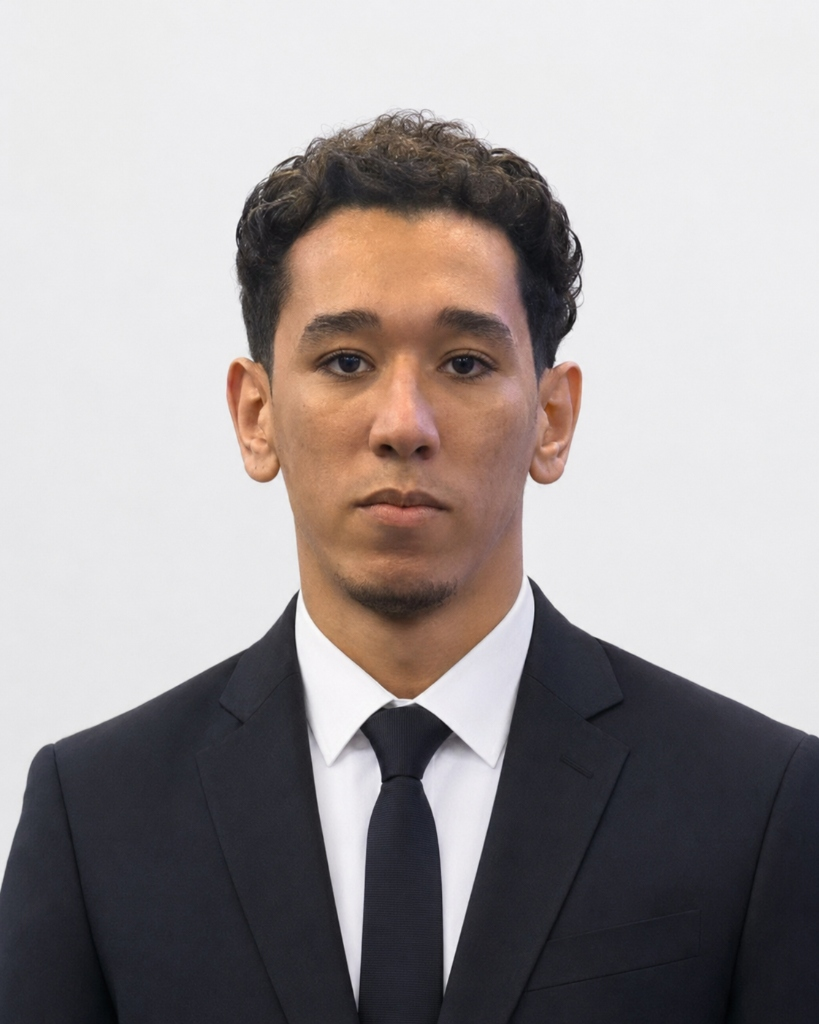
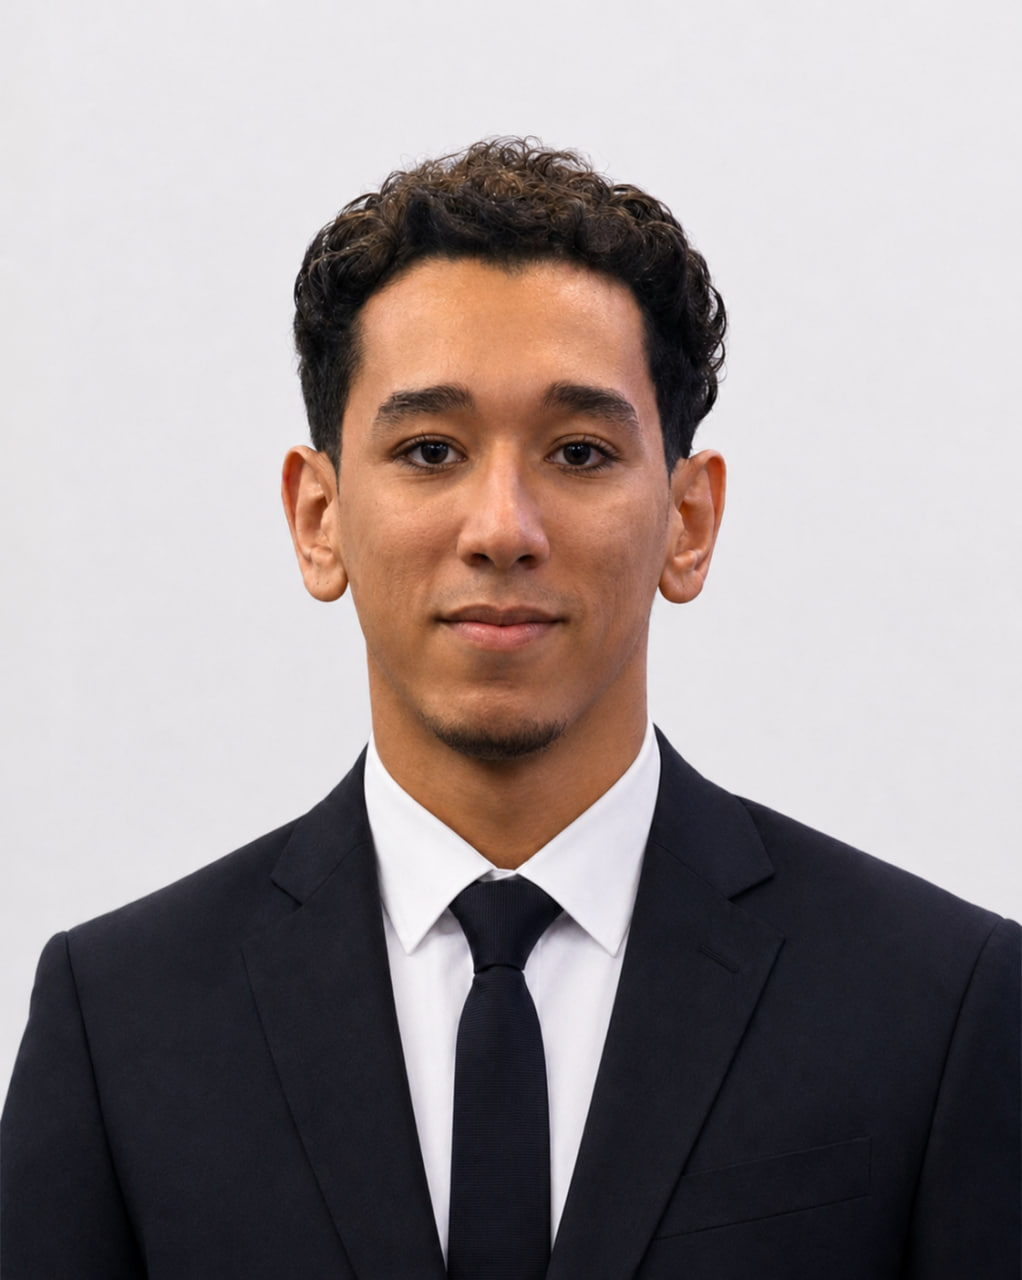
feat: update Abdo Research links to Calendly booking page

diff --git a/index.html b/index.html
@@ -76,7 +76,7 @@
   <header>
     <div class="nav-container">
       <div style="flex: 1; display: flex; align-items: center;">
-        <a href="https://t.me/abdoresearch" target="_blank" rel="noopener noreferrer" class="btn-primary" style="padding: 10px 24px; font-size: 0.9rem; border-radius: 50px; font-weight: 800; text-decoration: none;">احجز مكالمة</a>
+        <a href="https://calendly.com/abdoresearch/30min" target="_blank" rel="noopener noreferrer" class="btn-primary" style="padding: 10px 24px; font-size: 0.9rem; border-radius: 50px; font-weight: 800; text-decoration: none;">احجز مكالمة</a>
       </div>
 
       <!-- Brand Wordmark (Center on large screens) -->
@@ -91,7 +91,7 @@
       <div class="header-auth-group" style="flex: 1; justify-content: flex-end; display: flex; align-items: center; gap: 12px;">
         <!-- Social icons (header) — 32px, shown before login -->
         <div class="header-social-icons">
-          <a href="https://t.me/abdoresearch" target="_blank" rel="noopener noreferrer" class="social-icon-btn" aria-label="Telegram">
+          <a href="https://t.me/Abdo_Research" target="_blank" rel="noopener noreferrer" class="social-icon-btn" aria-label="Telegram">
             <svg viewBox="0 0 24 24" xmlns="http://www.w3.org/2000/svg"><path d="M12 2C6.48 2 2 6.48 2 12s4.48 10 10 10 10-4.48 10-10S17.52 2 12 2zm4.64 6.8l-1.68 7.93c-.12.56-.46.69-.93.43l-2.58-1.9-1.24 1.2c-.14.14-.25.25-.51.25l.18-2.62 4.7-4.25c.2-.18-.05-.28-.32-.1L7.9 14.84l-2.54-.8c-.55-.17-.56-.55.12-.82l9.92-3.82c.46-.17.86.11.69.8l.55-.2z"/></svg>
           </a>
           <a href="https://twitter.com/abdoresearch" target="_blank" rel="noopener noreferrer" class="social-icon-btn" aria-label="Twitter / X">
@@ -119,7 +119,7 @@
     <section id="hero" class="hero-section-inst">
       <div class="hero-inst-grid">
         <div class="hero-inst-left">
-          <span class="hero-eyebrow">باحث كمي مستقل · إدارة مخاطر أولاً · خبرة 8+ سنوات</span>
+          <span class="hero-eyebrow">باحث كمي مستقل · خبرة 8+ سنوات</span>
           <h1 class="hero-inst-headline">أبني نماذج تداول تقوم على الدليل الإحصائي، لا على الانطباع.</h1>
           <p class="hero-inst-sub">أنا عبدالرحمن محمد — أُطبّق منهجية بحثية كمية صارمة لتحويل البيانات التاريخية وسلوك السيولة إلى نماذج تداول مُختبرة بمنهجية Walk-Forward ومُدارة بانضباط.</p>
 
@@ -156,24 +156,11 @@
           </div>
 
           <div class="hero-btns">
-            <a href="https://t.me/abdoresearch" target="_blank" rel="noopener noreferrer" class="btn-primary" style="padding: 15px 44px; font-size: 1.05rem; font-weight: 800;">احجز مكالمة</a>
+            <a href="https://calendly.com/abdoresearch/30min" target="_blank" rel="noopener noreferrer" class="btn-primary" style="padding: 15px 44px; font-size: 1.05rem; font-weight: 800;">احجز مكالمة</a>
             <a href="#strategy" class="btn-secondary" style="padding: 15px 28px; font-size: 0.95rem;">استكشف المنهجية</a>
           </div>
 
-          <div class="hero-media-strip">
-            <span class="hero-media-label">نطاق التغطية</span>
-            <div class="hero-media-logos">
-              <span class="hero-media-logo">الأسواق الأمريكية</span>
-              <span class="hero-media-sep">·</span>
-              <span class="hero-media-logo">الخليج ومصر</span>
-              <span class="hero-media-sep">·</span>
-              <span class="hero-media-logo">العقود الآجلة</span>
-              <span class="hero-media-sep">·</span>
-              <span class="hero-media-logo">الخيارات</span>
-              <span class="hero-media-sep">·</span>
-              <span class="hero-media-logo">الأصول الرقمية</span>
-            </div>
-          </div>
+
         </div>
 
         <div class="hero-inst-right">
@@ -791,7 +778,7 @@
       <div class="about-simple">
         <img src="abdo-profile.jpg" alt="عبدالرحمن محمد — باحث كمي مستقل" width="88" height="88" loading="lazy" decoding="async" class="about-avatar" />
         <h2 class="about-headline">أنا عبدالرحمن محمد.<br>أبني أنظمة تداول كمية تُقاس بالأرقام لا بالانطباع.</h2>
-        <p>طريقتي في العمل واحدة لا تتغير: الفرضية أولاً، الاختبار الإحصائي ثانياً، إدارة المخاطر ثالثاً، ثم التنفيذ. كل صفقة أُصدرها تمرّ عبر نموذج مخاطر يحدّد حجم المركز ونقطة الخروج قبل الدخول — لا أتعامل مع السوق بالحدس، بل بالاحتمالات.</p>
+        <p>طريقتي في العمل واحدة لا تتغير: الفرضية أولاً، الاختبار الإحصائي ثانياً، إدارة المخاطر ثالثاً، ثم التنفيذ. كل صفقة أُصدرها تمرّ عبر نموذج مخاطر يحدّد حجم المركز ونقطة الخروج قبل الدخول — لا أتعامل مع السوق ��الحدس، بل بالاحتمالات.</p>
         <p>كرّستُ سنوات لبناء منهجية بحثية كمية مستقلة عبر الأسهم والعقود الآجلة والخيارات والأصول الرقمية، مُختبَرة بمنهجية Walk-Forward وخارج العينة. لا أبيع إشارات ولا وعوداً — أبني أنظمة قابلة للاختبار والمراجعة والمحاسبة، وأشارك نتائجها بشفافية كاملة.</p>
         <p class="about-disclaimer">جميع المحتويات لأغراض بحثية وتعليمية. الأداء السابق لا يضمن نتائج مستقبلية.</p>
       </div>

diff --git a/dashboard.html b/dashboard.html
@@ -1981,7 +1981,7 @@
               </div>
 
               <a
-                href="https://t.me/abdoresearch"
+                href="https://calendly.com/abdoresearch/30min"
                 target="_blank"
                 rel="noopener noreferrer"
                 class="db-lock-cta"
@@ -2007,7 +2007,7 @@
             <h3>للوصول للإشارات الحية — تواصل معنا</h3>
             <p>في مكالمة مجانية مدتها 20 دقيقة نتعرف على أهدافك المالية ونناقش ما إذا كانت الخطة المميزة تناسب وضعك. لا التزام، لا ضغط — محادثة صريحة فقط.</p>
           </div>
-          <a href="https://t.me/abdoresearch" target="_blank" rel="noopener noreferrer" class="db-cta-btn">
+          <a href="https://calendly.com/abdoresearch/30min" target="_blank" rel="noopener noreferrer" class="db-cta-btn">
             <svg viewBox="0 0 24 24" aria-hidden="true">
               <rect x="3" y="4" width="18" height="18" rx="2" ry="2"/>
               <line x1="16" y1="2" x2="16" y2="6"/>
@@ -2046,7 +2046,7 @@
           <p>قريباً ستتمكن من ربط محفظتك الاستثمارية ومتابعة أداء كل صفقة مع النماذج الكمية — P&amp;L في الوقت الفعلي، نسب الفوز، والعائد الشهري كل ذلك في مكان واحد.</p>
         </div>
 
-        <a href="https://t.me/abdoresearch" target="_blank" rel="noopener noreferrer" class="db-lock-cta">
+        <a href="https://calendly.com/abdoresearch/30min" target="_blank" rel="noopener noreferrer" class="db-lock-cta">
           <svg viewBox="0 0 24 24" aria-hidden="true">
             <path d="M22 16.92v3a2 2 0 0 1-2.18 2 19.79 19.79 0 0 1-8.63-3.07A19.5 19.5 0 0 1 4.69 13a19.79 19.79 0 0 1-3.07-8.67A2 2 0 0 1 3.6 2.18h3a2 2 0 0 1 2 1.72 12.84 12.84 0 0 0 .7 2.81 2 2 0 0 1-.45 2.11L8.09 9.91a16 16 0 0 0 6 6l1.27-1.27a2 2 0 0 1 2.11-.45 12.84 12.84 0 0 0 2.81.7A2 2 0 0 1 22 16.92z"/>
           </svg>
@@ -2157,7 +2157,7 @@
           <p>شرح مفصل لنموذج Previous Day Low Reclaim: الفكرة خلفه، كيف استُخرج من بيانات تاريخية على أكثر من 100 سهم في السوق السعودي، ومعدلات النجاح عبر مختلف ظروف السوق.</p>
           <div class="db-research-footer">
             <span class="db-research-read-time">8 دقائق قراءة</span>
-            <a href="https://t.me/abdoresearch" target="_blank" rel="noopener noreferrer" class="db-research-link">اقرأ التقرير ←</a>
+            <a href="https://t.me/Abdo_Research" target="_blank" rel="noopener noreferrer" class="db-research-link">اقرأ التقرير ←</a>
           </div>
         </article>
 
@@ -2171,7 +2171,7 @@
           <p>تقرير ربعي يستعرض أداء نموذج الانعكاس للمتوسط على أسهم سوق أبوظبي خلال الربع الأول من 2026 — نسب الفوز، متوسط العائد لكل صفقة، والفترات التي أخفق فيها النموذج.</p>
           <div class="db-research-footer">
             <span class="db-research-read-time">12 دقيقة قراءة</span>
-            <a href="https://t.me/abdoresearch" target="_blank" rel="noopener noreferrer" class="db-research-link">اقرأ التقرير ←</a>
+            <a href="https://t.me/Abdo_Research" target="_blank" rel="noopener noreferrer" class="db-research-link">اقرأ التقرير ←</a>
           </div>
         </article>
 
@@ -2185,7 +2185,7 @@
           <p>يعتقد كثيرون أن نسبة الفوز هي المقياس الوحيد للحكم على نظام تداول. هذا البحث يوضح لماذا القيمة المتوقعة (Expected Value) هي المقياس الحقيقي، ولماذا نظام بنسبة فوز 36% يمكنه التفوق على نظام بنسبة 70%.</p>
           <div class="db-research-footer">
             <span class="db-research-read-time">10 دقائق قراءة</span>
-            <a href="https://t.me/abdoresearch" target="_blank" rel="noopener noreferrer" class="db-research-link">اقرأ التقرير ←</a>
+            <a href="https://t.me/Abdo_Research" target="_blank" rel="noopener noreferrer" class="db-research-link">اقرأ التقرير ←</a>
           </div>
         </article>
 
